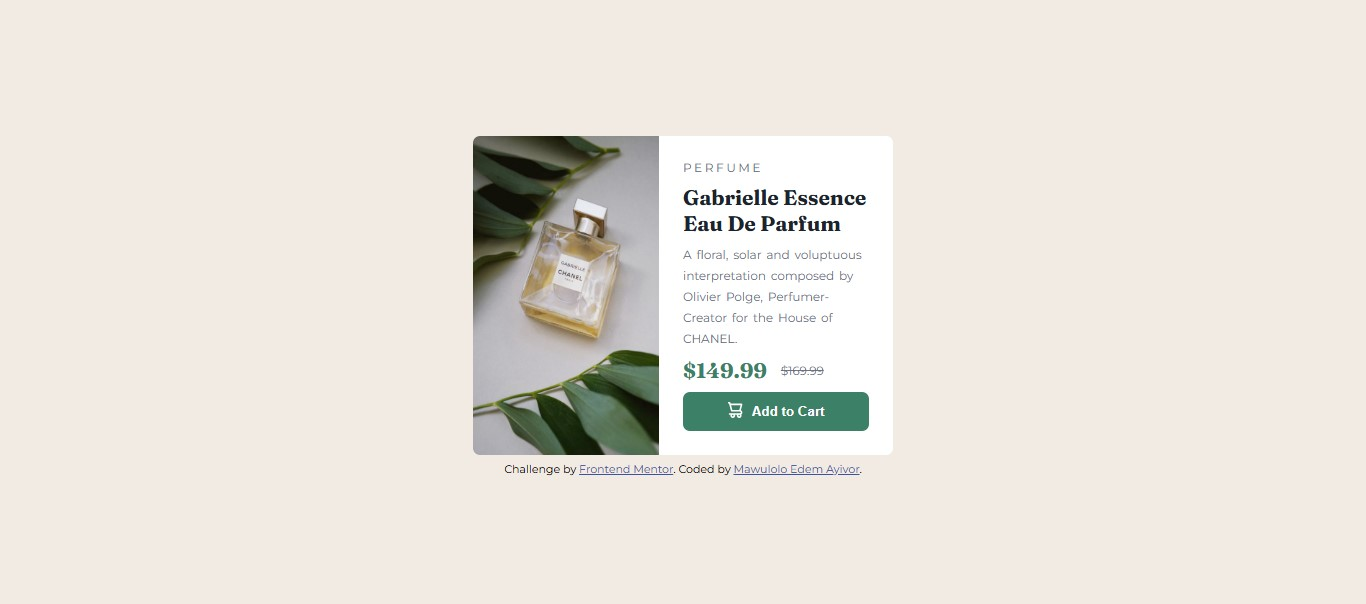
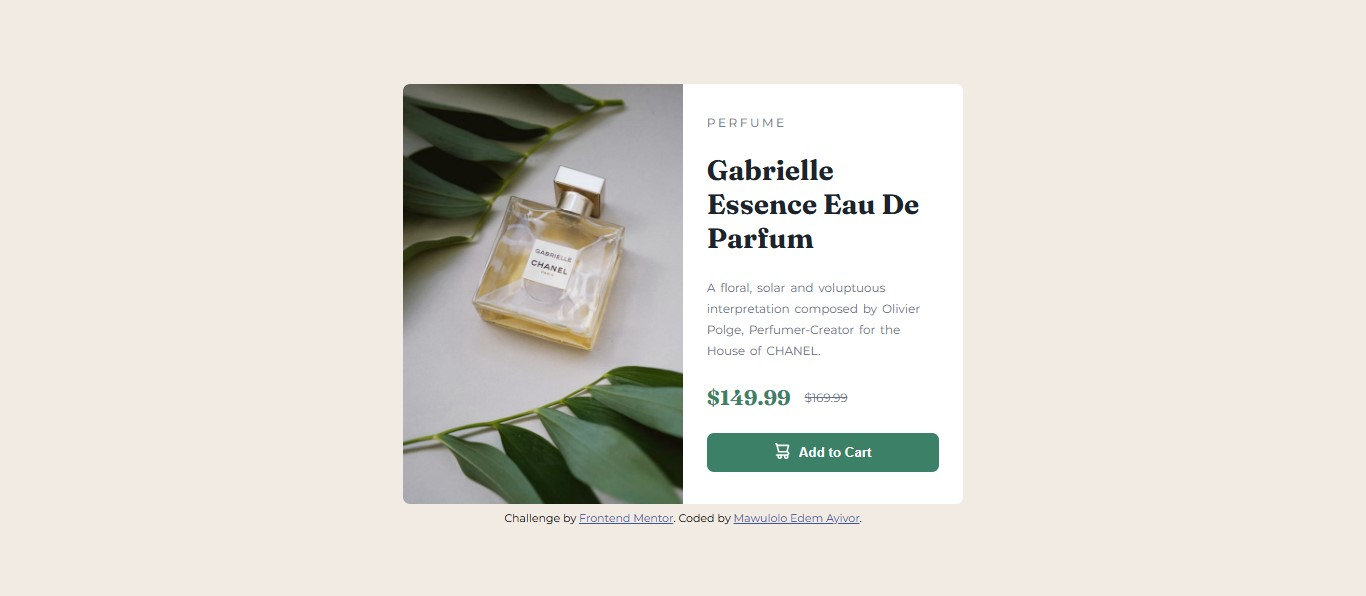
solution and live links updated, level one header included

Changed region(s): [[0.2767, 0.1208, 0.7072, 0.906]]

diff --git a/styles/styles.css b/styles/styles.css
@@ -33,13 +33,13 @@ body{
     border-radius: .5rem;
     background-color: var(--White);
     overflow: hidden;
-    display: flex;
-    flex-direction: column;
+    display: grid;
+    grid-template-rows: auto 1fr;
     margin-top: .5em;
 }
 
 img{
-    width: 100%;
+    max-width: 100%;
 }
 
 .product-img-desktop{
@@ -127,12 +127,12 @@ img{
 
 @media (width > 27rem) {
     .item-card{
-        flex-direction: row;
-        max-width: 30rem;
+        grid-template-columns: 1fr 1fr;
+        max-width: 40rem;
     }
 
-    .img-div, .text-div{
-        flex: 1;
+    .text-div{
+        justify-content: space-around;
     }
 
     .product-img-mobile{
